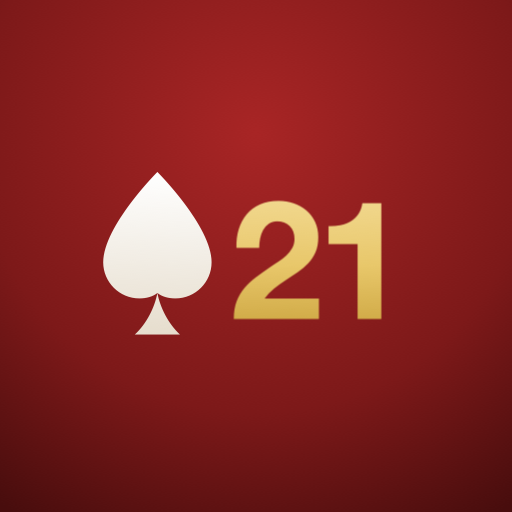
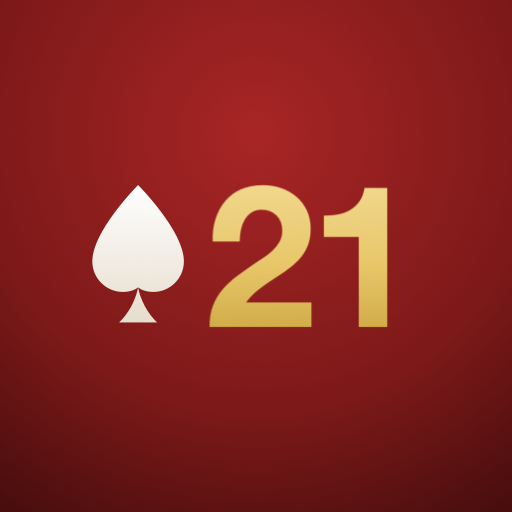
Only offer the split when the answer depends on the dealer
The chart never splits tens or fives, so prompting for them was a tap
you always answered the same way, on roughly one hand in ten. Worse,
it inflated chart accuracy with decisions that had only one sensible
answer. Those pairs now play straight through and the prompt appears
only when the upcard actually changes the answer.

Offer rate falls from 14.1% to 4.4% of rounds over a 20,000 round
soak, with no errors and the edge unchanged within noise.

Cosmetics:
- Icon spade is sized to the cap height of the digits and shares their
  baseline, instead of towering over them
- Stats no longer paints "Best round" green when it is zero
- Fast play describes dealer animations, not bots, now that the table
  is heads-up by default

Changed region(s): [[0.2188, 0.3438, 0.7812, 0.6562], [0.1562, 0.4375, 0.2188, 0.5625]]

diff --git a/js/ui.js b/js/ui.js
@@ -1,12 +1,12 @@
 // All DOM work. Hands are synced card by card so freshly dealt cards
 // animate once instead of the whole table flashing on every update.
 
-import { handValue, isBlackjack, rankLabel, suitGlyph, isRed } from './cards.js?v=7';
+import { handValue, isBlackjack, rankLabel, suitGlyph, isRed } from './cards.js?v=8';
 import {
   DEALER_COLS, HARD, SOFT, PAIRS, PAIR_ROWS, SOFT_ROWS, HARD_ROWS,
   CODE_LABEL, rowLabel, advise,
-} from './strategy.js?v=7';
-import { RULES, TABLE_MIN, TABLE_MAX } from './engine.js?v=7';
+} from './strategy.js?v=8';
+import { RULES, TABLE_MIN, TABLE_MAX } from './engine.js?v=8';
 
 const $ = (sel, root = document) => root.querySelector(sel);
 const fmt = (n) => Math.round(n).toLocaleString('en-US');
@@ -556,7 +556,7 @@ export class UI {
       ${row('Won / pushed / lost', `${fmt(s.handsWon)} / ${fmt(s.handsPushed)} / ${fmt(s.handsLost)}`)}
       ${row('Win rate', `${winRate}%`)}
       ${row('Net chips', signed(s.net), s.net >= 0 ? 'good' : 'bad')}
-      ${row('Best round', signed(s.biggestWin), 'good')}
+      ${row('Best round', signed(s.biggestWin), s.biggestWin > 0 ? 'good' : '')}
       ${row('Best streak', `${s.bestStreak} ${Math.abs(s.bestStreak) === 1 ? 'hand' : 'hands'}`)}
       ${row('Peak bankroll', fmt(s.peakBankroll))}
       ${row('Hints used', fmt(s.revealed))}
@@ -584,7 +584,7 @@ export class UI {
         <input type="range" id="setAi" min="0" max="5" step="1" value="${settings.aiPlayers}">
       </label>
       <label class="set-row toggle">
-        <span>Fast play<em>Shorter deal and bot animations</em></span>
+        <span>Fast play<em>Shorter deal and dealer animations</em></span>
         <input type="checkbox" id="setFast" ${settings.fastPlay ? 'checked' : ''}>
       </label>
       <label class="set-row toggle">

diff --git a/js/engine.js b/js/engine.js
@@ -2,8 +2,8 @@
 // double any two, DAS, split to 4 hands, aces one card and no resplit,
 // insurance offered, no surrender.
 
-import { Shoe, handValue, isBlackjack, isPair } from './cards.js?v=7';
-import { advise } from './strategy.js?v=7';
+import { Shoe, handValue, isBlackjack, isPair } from './cards.js?v=8';
+import { advise, pairEverSplits } from './strategy.js?v=8';
 
 export const RULES = {
   decks: 6,
@@ -270,6 +270,13 @@ export class Game {
       if (seat.kind === 'ai') await this.wait(430);
 
       // A pair is offered the way insurance is: answer it, then play on.
+      // Pairs the chart never splits are skipped, so the prompt only ever
+      // appears when the answer genuinely depends on the dealer's card.
+      if (seat.kind === 'player' && this.handOptions(seatIndex, h).canSplit &&
+          !pairEverSplits(hand.cards[0].rank, RULES.das)) {
+        hand.splitDeclined = true;
+      }
+
       if (seat.kind === 'player' && this.handOptions(seatIndex, h).canSplit) {
         const opts = this.handOptions(seatIndex, h);
         const chart = advise({

diff --git a/index.html b/index.html
@@ -11,9 +11,9 @@
 <meta name="apple-mobile-web-app-status-bar-style" content="black-translucent">
 <meta name="apple-mobile-web-app-title" content="21 Academy">
 <link rel="manifest" href="./manifest.webmanifest">
-<link rel="apple-touch-icon" href="./icons/icon-180.png?v=2">
-<link rel="icon" href="./icons/icon-192.png?v=2">
-<link rel="stylesheet" href="./css/style.css?v=7">
+<link rel="apple-touch-icon" href="./icons/icon-180.png?v=3">
+<link rel="icon" href="./icons/icon-192.png?v=3">
+<link rel="stylesheet" href="./css/style.css?v=8">
 </head>
 <body>
 <div id="app">
@@ -124,6 +124,6 @@
 </div>
 
 <div id="modalRoot"></div>
-<script type="module" src="./js/app.js?v=7"></script>
+<script type="module" src="./js/app.js?v=8"></script>
 </body>
 </html>

diff --git a/js/app.js b/js/app.js
@@ -1,8 +1,8 @@
-import { Game, TABLE_MIN, TABLE_MAX } from './engine.js?v=7';
-import { UI } from './ui.js?v=7';
-import { load, save, resetAll } from './storage.js?v=7';
-import { advise, DEALER_COLS } from './strategy.js?v=7';
-import { RULES } from './engine.js?v=7';
+import { Game, TABLE_MIN, TABLE_MAX } from './engine.js?v=8';
+import { UI } from './ui.js?v=8';
+import { load, save, resetAll } from './storage.js?v=8';
+import { advise, DEALER_COLS } from './strategy.js?v=8';
+import { RULES } from './engine.js?v=8';
 
 const state = load();
 let bet = Math.max(TABLE_MIN, Math.min(state.settings.lastBet, state.stats.bankroll));

diff --git a/js/strategy.js b/js/strategy.js
@@ -180,6 +180,14 @@ export function adviseInsurance() {
   };
 }
 
+// True when the chart splits this pair against at least one upcard.
+// Tens and fives are never split, so there is no decision worth asking about.
+export function pairEverSplits(rank, das = true) {
+  const row = PAIRS[chartRank(rank)];
+  if (!row) return false;
+  return row.some((code) => code === 'Y' || (code === 'YN' && das));
+}
+
 // Row label shown in the chart view.
 export function rowLabel(table, key) {
   if (table === 'pair') return key === 'T' ? 'T,T' : `${key},${key}`;
